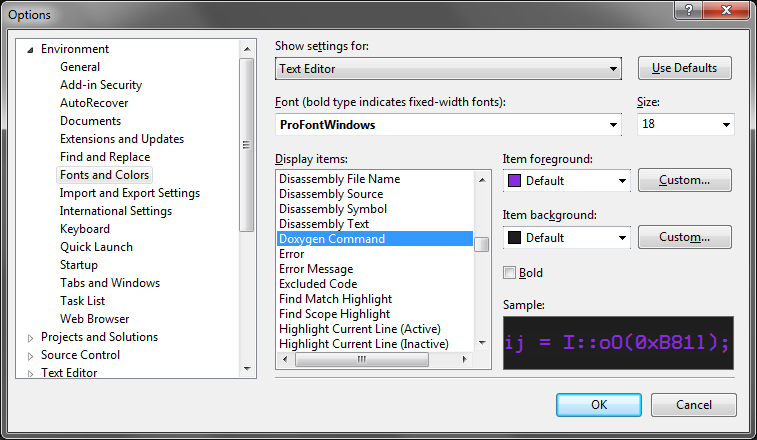
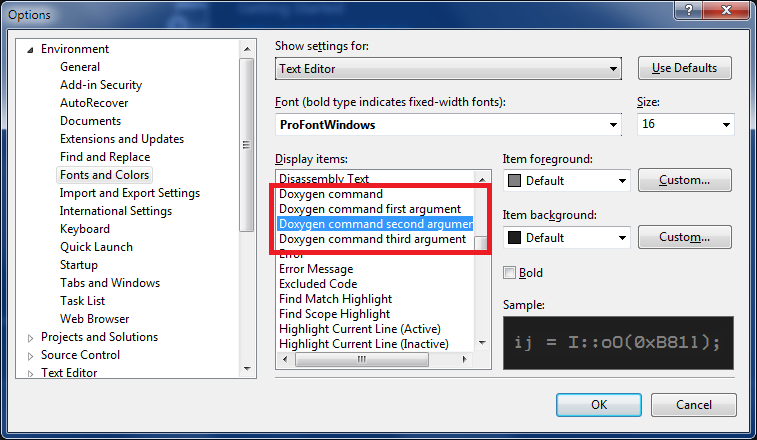
Add more command. Switch to v1.3.

diff --git a/Enhanced/Doxygen/Commands.cs b/Enhanced/Doxygen/Commands.cs
@@ -1355,10 +1355,11 @@
         /// paragraph. Multiple adjacent \exception commands will be joined into a single paragraph. Each exception
         /// description will start on a new line. The \exception description ends when a blank line or some other
         /// sectioning command is encountered. See section \fn for an example.
+        /// \exception std::out_of_range parameter is out of range.
         /// </summary>
         [Pattern(@"^*(?<" + FormatNames.DoxygenCommand +
                  @">[@\\]exception)\s+(?<" + FormatNames.DoxygenCommandArgOne +
-                 @">\w+\b)?\s+(?<" + FormatNames.DoxygenCommandArgTwo +
+                 @">[\w:\._]+\b)?\s+(?<" + FormatNames.DoxygenCommandArgTwo +
                  @">.+)?")]
         public const string Exception = "exception";
 
@@ -1838,7 +1839,6 @@
         /// ALIASES += "reminder=\xrefitem reminders \"Reminder\" \"Reminders\"" 
         /// 
         /// Note the use of escaped quotes for the second and third argument of the \xrefitem command.
-
         /// </summary>
         public const string Xrefitem = "xrefitem";
 
@@ -1865,6 +1865,9 @@
         ///     section \ref.
         /// 
         /// </summary>
+        [Pattern(@"^*(?<" + FormatNames.DoxygenCommand +
+                 @">(?:[@\\]anchor))\s+(?<" + FormatNames.DoxygenCommandArgOne +
+                 @">\w+\b)?")]
         public const string Anchor = "anchor";
 
         /// <summary>
@@ -1887,6 +1890,8 @@
         ///     section \link.
         /// 
         /// </summary>
+        [Pattern(@"^*(?<" + FormatNames.DoxygenCommand +
+                 @">[@\\]endlink)\b")]
         public const string Endlink = "endlink";
 
         /// <summary>
@@ -2266,7 +2271,7 @@
         /// </summary>
         [Pattern(@"^*(?<" + FormatNames.DoxygenCommand +
                  @">[@\\]snippet)\s+(?<" + FormatNames.DoxygenCommandArgOne +
-                 @">\w+\b)?\s+(?<" + FormatNames.DoxygenCommandArgTwo +
+                 @">[\w-\.\\/]+\b)?\s+(?<" + FormatNames.DoxygenCommandArgTwo +
                  @">.+)?")]
         public const string Snippet = "snippet";
 
@@ -2376,6 +2381,9 @@
         /// Displays the argument <word> using a bold font. Equivalent to <b>word</b>. To put multiple words in bold
         /// use <b>multiple words</b>.
         /// </summary>
+        [Pattern(@"^*(?<" + FormatNames.DoxygenCommand +
+                 @">(?:[@\\]b))\s+(?<" + FormatNames.DoxygenCommandArgOne +
+                 @">\w+\b)?")]
         public const string B = "b";
 
         /// <summary>
@@ -2395,6 +2403,9 @@
         /// 
         /// Equivalent to \p To have multiple words in typewriter font use <tt>multiple words</tt>.
         /// </summary>
+        [Pattern(@"^*(?<" + FormatNames.DoxygenCommand +
+                 @">(?:[@\\]c))\s+(?<" + FormatNames.DoxygenCommandArgOne +
+                 @">\w+\b)?")]
         public const string C = "c";
 
         /// <summary>
@@ -2464,6 +2475,9 @@
         /// 
         /// See \copybrief and \copydetails for copying only the brief or detailed part of the comment block.
         /// </summary>
+        [Pattern(@"^*(?<" + FormatNames.DoxygenCommand +
+                 @">[@\\]copydoc)\s+(?<" + FormatNames.DoxygenCommandArgOne +
+                 @">.+)?")]
         public const string Copydoc = "copydoc";
 
         /// <summary>
@@ -2472,6 +2486,9 @@
         /// Works in a similar way as \copydoc but will only copy the brief description, not the detailed
         /// documentation.
         /// </summary>
+        [Pattern(@"^*(?<" + FormatNames.DoxygenCommand +
+                 @">[@\\]copybrief)\s+(?<" + FormatNames.DoxygenCommandArgOne +
+                 @">.+)?")]
         public const string Copybrief = "copybrief";
 
         /// <summary>
@@ -2480,6 +2497,9 @@
         /// Works in a similar way as \copydoc but will only copy the detailed documentation, not the brief
         /// description.
         /// </summary>
+        [Pattern(@"^*(?<" + FormatNames.DoxygenCommand +
+                 @">[@\\]copydetails)\s+(?<" + FormatNames.DoxygenCommandArgOne +
+                 @">.+)?")]
         public const string Copydetails = "copydetails";
 
         /// <summary>
@@ -2508,6 +2528,8 @@
         /// (in the HTML output).
         /// */
         /// </summary>
+        [Pattern(@"^*(?<" + FormatNames.DoxygenCommand +
+                 @">[@\\]dot)\b")]
         public const string Dot = "dot";
 
         /// <summary>
@@ -2555,6 +2577,8 @@
         ///     section \mscfile.
         /// 
         /// </summary>
+        [Pattern(@"^*(?<" + FormatNames.DoxygenCommand +
+                 @">[@\\]msc)\b")]
         public const string Msc = "msc";
 
         /// <summary>
@@ -2571,6 +2595,10 @@
         /// This argument has to be specified between quotes even if it does not contain any spaces. The quotes are
         /// stripped before the caption is displayed.
         /// </summary>
+        [Pattern(@"^*(?<" + FormatNames.DoxygenCommand +
+                 @">[@\\]dotfile)\s+(?<" + FormatNames.DoxygenCommandArgOne +
+                 @">[\w-\.\\/]+\b)?\s+(?<" + FormatNames.DoxygenCommandArgTwo +
+                 @">.+)?")]
         public const string Dotfile = "dotfile";
 
         /// <summary>
@@ -2592,6 +2620,10 @@
         ///     section \msc.
         /// 
         /// </summary>
+        [Pattern(@"^*(?<" + FormatNames.DoxygenCommand +
+                 @">[@\\]mscfile)\s+(?<" + FormatNames.DoxygenCommandArgOne +
+                 @">[\w-\.\\/]+\b)?\s+(?<" + FormatNames.DoxygenCommandArgTwo +
+                 @">.+)?")]
         public const string Mscfile = "mscfile";
 
         /// <summary>
@@ -2645,6 +2677,8 @@
         ///     section \code
         /// 
         /// </summary>
+        [Pattern(@"^*(?<" + FormatNames.DoxygenCommand +
+                 @">[@\\]endcode)\b")]
         public const string Endcode = "endcode";
 
         /// <summary>
@@ -2652,6 +2686,8 @@
         /// 
         /// Ends a blocks that was started with \dot.
         /// </summary>
+        [Pattern(@"^*(?<" + FormatNames.DoxygenCommand +
+                 @">[@\\]enddot)\b")]
         public const string Enddot = "enddot";
 
         /// <summary>
@@ -2659,6 +2695,8 @@
         /// 
         /// Ends a blocks that was started with \msc.
         /// </summary>
+        [Pattern(@"^*(?<" + FormatNames.DoxygenCommand +
+                 @">[@\\]endmsc)\b")]
         public const string Endmsc = "endmsc";
 
         /// <summary>
@@ -2670,6 +2708,8 @@
         ///     section \htmlonly.
         /// 
         /// </summary>
+        [Pattern(@"^*(?<" + FormatNames.DoxygenCommand +
+                 @">[@\\]endhtmlonly)\b")]
         public const string Endhtmlonly = "endhtmlonly";
 
         /// <summary>
@@ -2681,6 +2721,8 @@
         ///     section \latexonly.
         /// 
         /// </summary>
+        [Pattern(@"^*(?<" + FormatNames.DoxygenCommand +
+                 @">[@\\]endlatexonly)\b")]
         public const string Endlatexonly = "endlatexonly";
 
         /// <summary>
@@ -2692,6 +2734,8 @@
         ///     section \manonly.
         /// 
         /// </summary>
+        [Pattern(@"^*(?<" + FormatNames.DoxygenCommand +
+                 @">[@\\]endmanonly)\b")]
         public const string Endmanonly = "endmanonly";
 
         /// <summary>
@@ -2703,6 +2747,8 @@
         ///     section \rtfonly.
         /// 
         /// </summary>
+        [Pattern(@"^*(?<" + FormatNames.DoxygenCommand +
+                 @">[@\\]endrtfonly)\b")]
         public const string Endrtfonly = "endrtfonly";
 
         /// <summary>
@@ -2714,6 +2760,8 @@
         ///     section \verbatim.
         /// 
         /// </summary>
+        [Pattern(@"^*(?<" + FormatNames.DoxygenCommand +
+                 @">[@\\]endverbatim)\b")]
         public const string Endverbatim = "endverbatim";
 
         /// <summary>
@@ -2725,6 +2773,8 @@
         ///     section \xmlonly.
         /// 
         /// </summary>
+        [Pattern(@"^*(?<" + FormatNames.DoxygenCommand +
+                 @">[@\\]endxmlonly)\b")]
         public const string Endxmlonly = "endxmlonly";
 
         /// <summary>
@@ -2736,6 +2786,8 @@
         ///     section formulas for an example.
         /// 
         /// </summary>
+        [Pattern(@"^*(?<" + FormatNames.DoxygenCommand +
+                 @">[@\\]f\$)\s+")]
         public const string FDollar = "f$";
 
         /// <summary>
@@ -2747,6 +2799,8 @@
         ///     section \f] and section formulas.
         /// 
         /// </summary>
+        [Pattern(@"^*(?<" + FormatNames.DoxygenCommand +
+                 @">[@\\]f\[)\s+")]
         public const string FLeftSquareBracket = "f[";
 
         /// <summary>
@@ -2758,6 +2812,8 @@
         ///     section \f[ and section formulas.
         /// 
         /// </summary>
+        [Pattern(@"^*(?<" + FormatNames.DoxygenCommand +
+                 @">[@\\]f])\s+")]
         public const string FRightSquareBracket = "f]";
 
         /// <summary>
@@ -2773,6 +2829,8 @@
         ///     section \f} and section formulas.
         /// 
         /// </summary>
+        [Pattern(@"^*(?<" + FormatNames.DoxygenCommand +
+                 @">[@\\]f\{)\s+")]
         public const string FLeftCurlyBracket = "f{";
 
         /// <summary>
@@ -2784,6 +2842,8 @@
         ///     section \f{ and section formulas.
         /// 
         /// </summary>
+        [Pattern(@"^*(?<" + FormatNames.DoxygenCommand +
+                 @">[@\\]f})\s+")]
         public const string FRightCurlyBracket = "f}";
 
         /// <summary>
@@ -2803,6 +2863,8 @@
         ///     section \manonly, section \latexonly, and section \rtfonly.
         /// 
         /// </summary>
+        [Pattern(@"^*(?<" + FormatNames.DoxygenCommand +
+                 @">[@\\]htmlonly)\b")]
         public const string Htmlonly = "htmlonly";
 
         /// <summary>
@@ -2865,6 +2927,8 @@
         ///     section \rtfonly, section \xmlonly, section \manonly, and section \htmlonly.
         /// 
         /// </summary>
+        [Pattern(@"^*(?<" + FormatNames.DoxygenCommand +
+                 @">[@\\]latexonly)\b")]
         public const string Latexonly = "latexonly";
 
         /// <summary>
@@ -2880,6 +2944,8 @@
         ///     section \htmlonly, section \xmlonly, section \rtfonly, and section \latexonly.
         /// 
         /// </summary>
+        [Pattern(@"^*(?<" + FormatNames.DoxygenCommand +
+                 @">[@\\]manonly)\b")]
         public const string Manonly = "manonly";
 
         /// <summary>
@@ -2912,6 +2978,8 @@
         /// 
         /// Equivalent to \arg
         /// </summary>
+        [Pattern(@"^*(?<" + FormatNames.DoxygenCommand +
+                 @">[@\\]li)\b")]
         public const string Li = "li";
 
         /// <summary>
@@ -2919,6 +2987,8 @@
         /// 
         /// Forces a new line. Equivalent to <br> and inspired by the printf function.
         /// </summary>
+        [Pattern(@"^*(?<" + FormatNames.DoxygenCommand +
+                 @">[@\\]n)\b")]
         public const string N = "n";
 
         /// <summary>
@@ -2937,6 +3007,9 @@
         /// 
         /// Equivalent to \c To have multiple words in typewriter font use <tt>multiple words</tt>.
         /// </summary>
+        [Pattern(@"^*(?<" + FormatNames.DoxygenCommand +
+                 @">(?:[@\\]p))\s+(?<" + FormatNames.DoxygenCommandArgOne +
+                 @">\w+\b)?")]
         public const string P = "p";
 
         /// <summary>
@@ -2953,6 +3026,8 @@
         ///     section \manonly, section \xmlonly, section \latexonly, and section \htmlonly.
         /// 
         /// </summary>
+        [Pattern(@"^*(?<" + FormatNames.DoxygenCommand +
+                 @">[@\\]rtfonly)\b")]
         public const string Rtfonly = "rtfonly";
 
         /// <summary>
@@ -2969,6 +3044,8 @@
         ///     section \code, and section \verbinclude.
         /// 
         /// </summary>
+        [Pattern(@"^*(?<" + FormatNames.DoxygenCommand +
+                 @">[@\\]verbatim)\b")]
         public const string Verbatim = "verbatim";
 
         /// <summary>
@@ -2983,6 +3060,8 @@
         ///     section \manonly, section \rtfonly, section \latexonly, and section \htmlonly.
         /// 
         /// </summary>
+        [Pattern(@"^*(?<" + FormatNames.DoxygenCommand +
+                 @">[@\\]xmlonly)\b")]
         public const string Xmlonly = "xmlonly";
 
         /// <summary>
